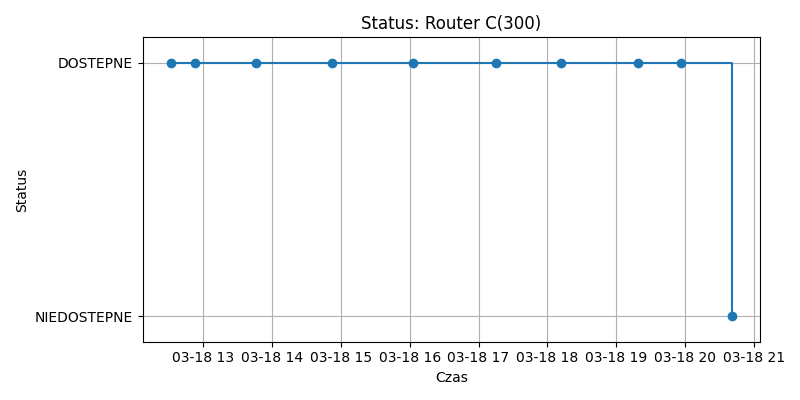
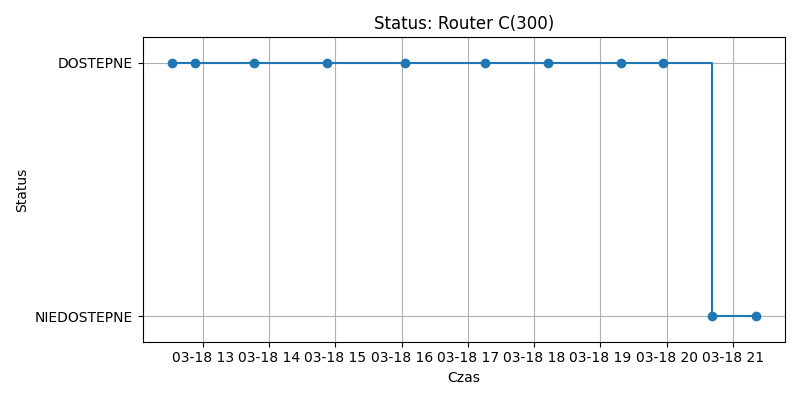
Automatyczna aktualizacja monitoringu

diff --git a/index.html b/index.html
@@ -33,5 +33,5 @@ img { border: 1px solid #ccc; border-radius: 8px; }
                 <div>Router C(300)</div>
                 <img src="chart_Router C(300).png" alt="Router C(300)" style="max-width:600px; margin-top:10px;">
             </div>
-            <p>Ostatnia zmiana: 2026-03-18 20:41:06</p>
+            <p>Ostatnia zmiana: 2026-03-18 21:20:48</p>
 </body></html>
